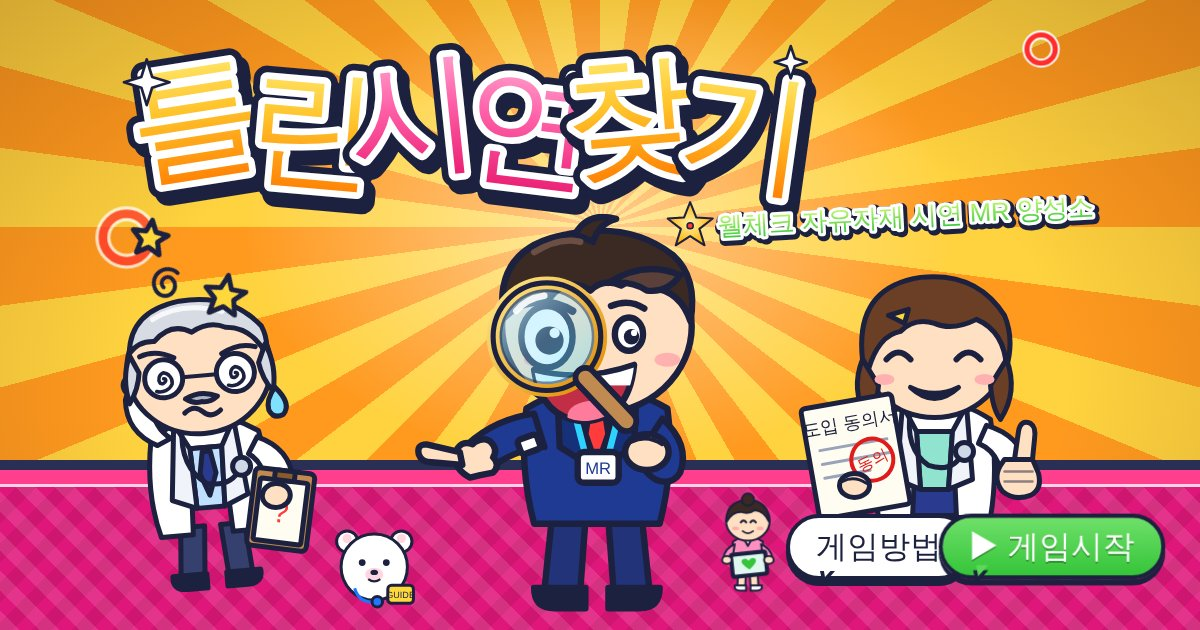
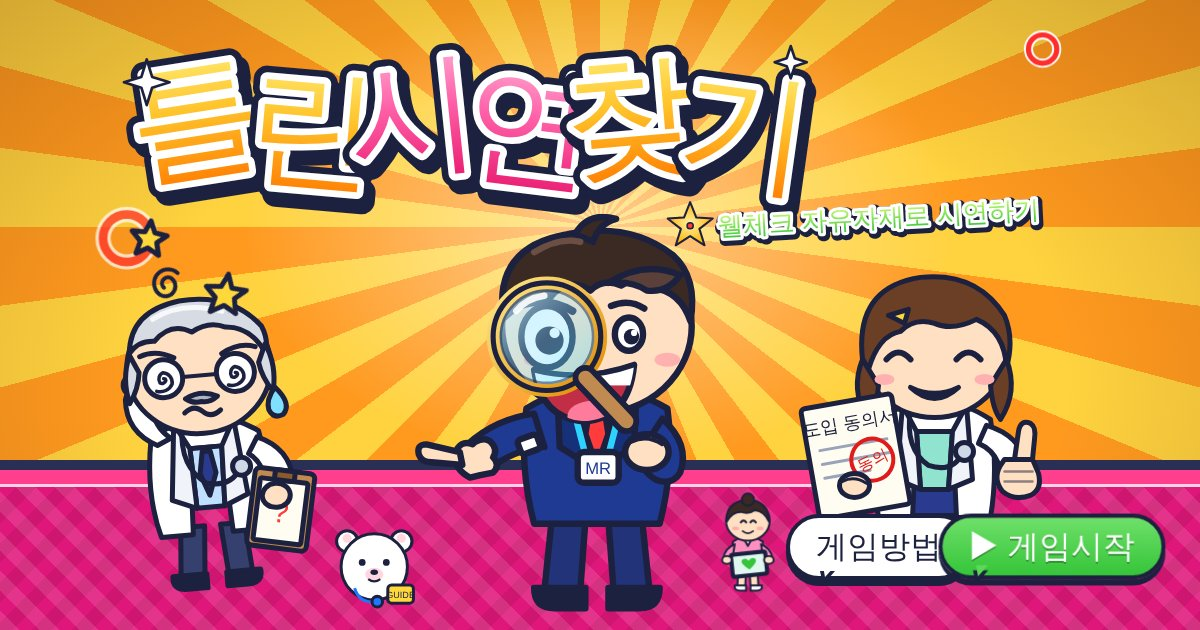
v56: 슬로건 '웰체크 자유자재로 시연하기'로 변경(타이틀·결과/인증서 이미지·공유 썸네일)
Claude-Session: https://claude.ai/code/session_01UE7LmQd9NYkQjVYqctjswZ

diff --git a/index.html b/index.html
@@ -1,4 +1,4 @@
-<!doctype html><html lang="ko"><head><meta charset="utf-8"><meta name="viewport" content="width=device-width,initial-scale=1,viewport-fit=cover"><meta name="robots" content="noindex,nofollow"><meta name="theme-color" content="#1d2140"><link rel="manifest" href="manifest.webmanifest"><link rel="apple-touch-icon" href="apple-touch-icon.png"><meta name="apple-mobile-web-app-capable" content="yes"><meta name="mobile-web-app-capable" content="yes"><meta name="apple-mobile-web-app-title" content="틀린시연찾기"><meta name="description" content="웰체크 자유자재 시연 MR 양성소 — 실제 화면에서 틀린 클릭을 찾아내는 시연 훈련 게임"><meta property="og:type" content="website"><meta property="og:title" content="틀린시연찾기 · 웰체크 시연 MR 양성소"><meta property="og:description" content="실제 화면으로 웰체크 시연을 연습하고, 원장님 질문까지 막힘 없이."><meta property="og:url" content="https://fromgray-lab.github.io/wellcheck-demo-spotter/"><meta property="og:image" content="https://fromgray-lab.github.io/wellcheck-demo-spotter/og.jpg"><meta property="og:image:width" content="1200"><meta property="og:image:height" content="630"><meta name="twitter:card" content="summary_large_image"><meta name="twitter:image" content="https://fromgray-lab.github.io/wellcheck-demo-spotter/og.jpg"></head><body><title>틀린시연찾기</title>
+<!doctype html><html lang="ko"><head><meta charset="utf-8"><meta name="viewport" content="width=device-width,initial-scale=1,viewport-fit=cover"><meta name="robots" content="noindex,nofollow"><meta name="theme-color" content="#1d2140"><link rel="manifest" href="manifest.webmanifest"><link rel="apple-touch-icon" href="apple-touch-icon.png"><meta name="apple-mobile-web-app-capable" content="yes"><meta name="mobile-web-app-capable" content="yes"><meta name="apple-mobile-web-app-title" content="틀린시연찾기"><meta name="description" content="웰체크 자유자재로 시연하기 — 실제 화면에서 틀린 클릭을 찾아내는 시연 훈련 게임"><meta property="og:type" content="website"><meta property="og:title" content="틀린시연찾기 · 웰체크 자유자재로 시연하기"><meta property="og:description" content="실제 화면으로 웰체크 시연을 연습하고, 원장님 질문까지 막힘 없이."><meta property="og:url" content="https://fromgray-lab.github.io/wellcheck-demo-spotter/"><meta property="og:image" content="https://fromgray-lab.github.io/wellcheck-demo-spotter/og.jpg"><meta property="og:image:width" content="1200"><meta property="og:image:height" content="630"><meta name="twitter:card" content="summary_large_image"><meta name="twitter:image" content="https://fromgray-lab.github.io/wellcheck-demo-spotter/og.jpg"></head><body><title>틀린시연찾기</title>
 <meta name="claude:viewport-fit-sides" content="cover">
 <link rel="stylesheet" href="https://fonts.googleapis.com/css2?family=Jua&family=Black+Han+Sans&family=Noto+Sans+KR:wght@400;700;900&display=swap">
 <style>
@@ -827,8 +827,8 @@ body[data-screen="loop"] .sunburst{--sun-1:#ffe9b8;--sun-2:#ffd27a}
     <symbol id="symBadge" viewBox="0 0 960 120" overflow="visible">
       <g transform="translate(46,60)"><path fill="url(#gStar)" stroke="#1d2140" stroke-width="4" stroke-linejoin="round" d="M0 -46 L12 -16 L44 -14 L18 6 L28 38 L0 20 L-28 38 L-18 6 L-44 -14 L-12 -16Z"/><circle cx="0" cy="0" r="6" fill="#ff3b3b" stroke="#1d2140" stroke-width="3"/></g>
       <g font-family="'Jua','Noto Sans KR',sans-serif" font-size="50" stroke-linejoin="round" transform="translate(100,78) rotate(-3)">
-        <text stroke="#1d2140" stroke-width="22" fill="#1d2140" x="3" y="5">웰체크 자유자재 시연 MR 양성소</text>
-        <text stroke="#fff" stroke-width="12" paint-order="stroke" fill="url(#gLime)">웰체크 자유자재 시연 MR 양성소</text>
+        <text stroke="#1d2140" stroke-width="22" fill="#1d2140" x="3" y="5">웰체크 자유자재로 시연하기</text>
+        <text stroke="#fff" stroke-width="12" paint-order="stroke" fill="url(#gLime)">웰체크 자유자재로 시연하기</text>
       </g>
     </symbol>
 
@@ -1029,7 +1029,7 @@ body[data-screen="loop"] .sunburst{--sun-1:#ffe9b8;--sun-2:#ffd27a}
     <div class="corner"><button type="button" class="g-btn" id="btnBoard">마스터 현황표</button><button type="button" class="g-btn" id="btnRecords">기록실</button></div>
     <button type="button" class="g-btn tail" id="btnHow">게임방법</button>
     <button type="button" class="g-btn tail green" id="btnStart">▶ 게임시작</button>
-    <div class="credit">틀린시연찾기 · 공식 메뉴얼 + 체험존 기반 · 신사업전략팀 · <span id="verTag" title="업데이트 노트는 게임방법 안에">v55</span></div>
+    <div class="credit">틀린시연찾기 · 공식 메뉴얼 + 체험존 기반 · 신사업전략팀 · <span id="verTag" title="업데이트 노트는 게임방법 안에">v56</span></div>
   </div>
 </section>
 
@@ -1296,6 +1296,7 @@ body[data-screen="loop"] .sunburst{--sun-1:#ffe9b8;--sun-2:#ffd27a}
     <div class="sites" id="siteLegend"></div>
     <p class="kbd" style="margin:10px 0 0">전체 완주 점수 = 100 − 오답×5 − 찬스×8. S 100 · A 90↑ · B 75↑ · C 60↑ · D · F(원장님 퇴장). 시간 초과도 오답 1회. 👀 시범은 정답과 멘트를 보여주는 자동 재생.</p>
     <details class="changelog"><summary>🆕 업데이트 노트 (최근)</summary><ul>
+      <li><b>v56</b> 슬로건 변경 — '웰체크 자유자재로 시연하기' (타이틀·결과 카드·인증서·수료 이미지·공유 썸네일 전부)</li>
       <li><b>v55</b> 일간 루프 제안 반영 — 오늘의 10문제·약점 집중·주간 챌린지에서 스텝 위에 '📍 M0 · 직전 단계: … ✓' 한 줄(맥락 없이 헤매던 문제) · '○○ 선택 후 [버튼]' 문구 3곳 '골라진 상태 — [버튼]'으로 정리 · ✕로 그만둘 때 이유 묻기(선택, 의견 시트로) · 이름에 자모 한 글자·'테스트' 등 입력 차단</li>
       <li><b>v54</b> 🔁 일간 자동 개선 — 쌓인 오클릭 기반 문구 보완 2건: M2 '앱 설치 문자 보내기' 메뉴 스텝에 '왼쪽 메뉴에서' 명시(3명이 카드의 초대문자 버튼을 먼저 누름) · M2 담당의사 저장 스텝에 '열린 팝업에서' 명시(2명이 표의 담당의사 돋보기를 누름)</li>
       <li><b>v53</b> 📉 실패·중도 그만도 기록 — 원장님 퇴장(인내심 0)과 플레이 중 ✕를 누른 판도 진행분(몇 스텝까지·오답·오클릭 위치)을 '실패'/'중단'으로 시트에 저장 → 어디서 막혀 포기하는지까지 개선 루프에 반영</li>
@@ -2280,7 +2281,7 @@ function saveResultImage(){ const L=S.lastResult; if(!L) return; const W=1080,H=
   const stats=[['점수',L.total],['오답',L.wrong],['찬스',L.chance],['응대',L.q&&L.q.total?`${L.q.ok}/${L.q.total}`:'—'],['시간',L.time]]; stats.forEach(([k,v],i)=>{ const x=110+i*(W-220)/5, w=(W-220)/5-12; roundRect(c,x,670,w,96,18); c.fillStyle='#fff'; c.fill(); c.lineWidth=4; c.strokeStyle='#1d2140'; c.stroke(); c.fillStyle='#5b6383'; c.font=F(20); c.fillText(k,x+w/2,696); c.fillStyle='#1d2140'; c.font=F(String(v).length>5?30:36); c.fillText(String(v),x+w/2,736); });
   // 스테이지 별
   c.textAlign='left'; let y=820; L.rows.forEach(([code,title,stars])=>{ c.fillStyle='#1d2140'; c.font=F(24); c.fillText(code+' '+title, 130, y); c.font=F(30); c.strokeStyle='#1d2140'; c.lineWidth=3; const sw=c.measureText('★').width+6; const x0=W-130-sw*3; for(let k=0;k<3;k++){ const on=k<stars; c.fillStyle=on?'#ffd93b':'#e3e5ee'; c.strokeStyle=on?'#1d2140':'#b8bccc'; c.strokeText('★', x0+k*sw, y); c.fillText('★', x0+k*sw, y); } c.strokeStyle='#1d2140'; y+=44; });
-  c.textAlign='center'; c.fillStyle='#fff'; c.font=F(28); c.lineWidth=6; c.strokeStyle='#1d2140'; c.strokeText('웰체크 자유자재 시연 MR 양성소', W/2, H-96); c.fillText('웰체크 자유자재 시연 MR 양성소', W/2, H-96);
+  c.textAlign='center'; c.fillStyle='#fff'; c.font=F(28); c.lineWidth=6; c.strokeStyle='#1d2140'; c.strokeText('웰체크 자유자재로 시연하기', W/2, H-96); c.fillText('웰체크 자유자재로 시연하기', W/2, H-96);
   const fn=`틀린시연찾기_${L.name}_${L.g}.png`; const btn=$('imgBtn'); const done=(t,ms)=>{ btn.textContent=t; setTimeout(()=>{ btn.textContent='🖼 이미지 저장'; btn.disabled=false; }, ms||1800); };
   btn.disabled=true; btn.textContent='준비 중…';
   cv.toBlob(async b=>{ if(!b){ done('저장 실패'); return; }
@@ -2351,7 +2352,7 @@ function renderQReview(){ const l=(S.qLog||[]).filter(x=>!x.learn); const box=$(
    스텝 숙련도 = 시도 품질(오답0·찬스0=1.0 / 오답1=0.6 / 찬스 또는 오답2=0.3 / 그 이상=0)의 최근 가중 평균(EMA 0.5) × 시간 감쇠(60일에 걸쳐 60%까지)
    스테이지 숙련도 = 스텝 평균(미시도=0) · 코스 숙련도 = 스테이지 평균 */
 const RANKS = [
-  { id:'trainee', n:'견습 MR', ic:'🌱', desc:'양성소 입소. 시범·따라하기로 흐름을 익히는 단계' },
+  { id:'trainee', n:'견습 MR', ic:'🌱', desc:'훈련 시작. 시범·따라하기로 흐름을 익히는 단계' },
   { id:'certified', n:'정식 MR', ic:'🎖', desc:'실무 8단계 완주 B등급 이상 + 실무 숙련도 60% 이상' },
   { id:'master', n:'마스터 MR', ic:'👑', desc:'실무·체험존 모두 A등급 이상 완주 + 두 코스 숙련도 85% 이상 + 원장님 질문 응대 정답률 80% 이상(10문 이상)' }
 ];
@@ -2664,7 +2665,7 @@ function saveCertImage(btn){ const T=certText(); const W=1400,H=990; const cv=do
   const bg=c.createLinearGradient(0,0,W,H); bg.addColorStop(0,'#fff6dc'); bg.addColorStop(1,'#ffe7b3'); c.fillStyle=bg; c.fillRect(0,0,W,H);
   c.strokeStyle='#1d2140'; c.lineWidth=14; roundRect(c,40,40,W-80,H-80,36); c.stroke(); c.strokeStyle='#e0177a'; c.lineWidth=4; roundRect(c,66,66,W-132,H-132,26); c.stroke();
   const F=(sz,fam)=>`${sz}px ${fam||"'Jua','Noto Sans KR',sans-serif"}`; c.textAlign='center'; c.textBaseline='middle';
-  const gold=T.rank.id==='master'; const ribbon=gold?'#ffb300':T.rank.id==='certified'?'#2b9bff':'#5ad36b'; c.fillStyle=ribbon; roundRect(c,W/2-270,96,540,64,22); c.fill(); c.strokeStyle='#1d2140'; c.lineWidth=5; c.stroke(); c.fillStyle='#fff'; c.font=F(30); c.fillText('웰체크 자유자재 시연 MR 양성소',W/2,128);
+  const gold=T.rank.id==='master'; const ribbon=gold?'#ffb300':T.rank.id==='certified'?'#2b9bff':'#5ad36b'; c.fillStyle=ribbon; roundRect(c,W/2-270,96,540,64,22); c.fill(); c.strokeStyle='#1d2140'; c.lineWidth=5; c.stroke(); c.fillStyle='#fff'; c.font=F(30); c.fillText('웰체크 자유자재로 시연하기',W/2,128);
   c.fillStyle='#1d2140'; c.font=F(72,"'Black Han Sans','Jua',sans-serif"); c.fillText('MR 자격 인증서',W/2,236);
   c.font=F(120); c.fillText(T.rank.ic,W/2,370);
   c.font=F(56); c.fillStyle='#1d2140'; c.fillText(T.rank.n,W/2,470);
@@ -2855,7 +2856,7 @@ function saveCardImage(card, btn){ const W=1080,H=1080; const cv=document.create
   const stats=card.stats||[]; const n=stats.length||1; stats.forEach(([k,v],i)=>{ const x=120+i*(W-240)/n, w=(W-240)/n-12; roundRect(c,x,672,w,116,18); c.fillStyle='#fff'; c.fill(); c.lineWidth=4; c.strokeStyle='#1d2140'; c.stroke(); c.fillStyle='#5b6383'; c.font=F(22); c.fillText(k,x+w/2,706); c.fillStyle='#1d2140'; c.font=F(String(v).length>5?32:42); c.fillText(String(v),x+w/2,752); });
   if(card.msg){ roundRect(c,140,812,W-280,70,18); c.fillStyle='#fff3a8'; c.fill(); c.lineWidth=4; c.strokeStyle='#1d2140'; c.stroke(); c.fillStyle='#1d2140'; c.font=F(28); c.fillText(card.msg, W/2, 847); }
   c.fillStyle='#5b6383'; c.font=F(22); c.fillText(new Date().toLocaleString('ko-KR',{dateStyle:'medium',timeStyle:'short'}), W/2, H-185);
-  c.fillStyle='#fff'; c.font=F(30); c.lineWidth=6; c.strokeStyle='#1d2140'; c.strokeText('웰체크 자유자재 시연 MR 양성소', W/2, H-72); c.fillText('웰체크 자유자재 시연 MR 양성소', W/2, H-72);
+  c.fillStyle='#fff'; c.font=F(30); c.lineWidth=6; c.strokeStyle='#1d2140'; c.strokeText('웰체크 자유자재로 시연하기', W/2, H-72); c.fillText('웰체크 자유자재로 시연하기', W/2, H-72);
   const fn=card.fn||'틀린시연찾기_카드.png'; const done=(t,ms)=>{ if(!btn) return; btn.textContent=t; setTimeout(()=>{ btn.textContent='🖼 이미지 저장'; btn.disabled=false; }, ms||1800); }; if(btn){ btn.disabled=true; btn.textContent='준비 중…'; }
   cv.toBlob(async b=>{ if(!b){ done('저장 실패'); return; } const dl=await getDownloads(); if(dl){ try{ await dl.save({ filename:fn, data:b }); SFX.star(); done('저장됨 ✓'); }catch(e){ const code=e&&e.code; done(code==='declined'?'취소됨':code==='rate_limited'?'잠시 후 다시':'저장 실패'); } } else if(!window.claude){ const a=document.createElement('a'); a.href=URL.createObjectURL(b); a.download=fn; document.body.appendChild(a); a.click(); setTimeout(()=>{ URL.revokeObjectURL(a.href); a.remove(); },1500); done('저장됨 ✓'); } else done('이 화면에선 저장 불가',2600); }, 'image/png'); }
 function cardBtnHtml(){ return `<button type="button" class="g-btn" data-card>🖼 이미지 저장</button>`; }

diff --git a/sw.js b/sw.js
@@ -1,5 +1,5 @@
 /* 틀린시연찾기 오프라인 서비스워커 — make_site.py가 버전·자산 목록을 채움 */
-const VER='dsg-a19d95b729'; const ASSETS=["./", "index.html", "manifest.webmanifest", "icon-192.png", "icon-512.png", "apple-touch-icon.png", "img/s01_zone_select.jpg", "img/s02_wellcheck_menu.jpg", "img/s03_bear_question.jpg", "img/s04_bear_y1.jpg", "img/s05_bear_y2.jpg", "img/s06_bear_y3.jpg", "img/s07_bear_n1.jpg", "img/s08_bear_n2.jpg", "img/s09_bear_n3.jpg", "img/s10_bear_n4.jpg", "img/s11_spotlight_emr.jpg", "img/s13_b2_chart.jpg", "img/s14_b2_discount.jpg", "img/s15_popup_suga.jpg", "img/s16_popup_health.jpg", "img/s17_popup_faq.jpg", "img/s18_b3_revenue.jpg", "img/s19_b3_benefit.jpg", "img/s20_b4_invitation.jpg", "img/s21_b5_initial.jpg", "img/s22_b5_newrow.jpg", "img/s23_b5_calendar.jpg", "img/s24_b5_dates.jpg", "img/s25_b5_filled.jpg", "img/s26_b5_doctor_modal.jpg", "img/s27_b5_doctor_selected.jpg", "img/s28_b5_saved.jpg", "img/s29_b6_initial.jpg", "img/s30_b6_dropdown.jpg", "img/s31_b6_bulk.jpg", "img/s32_b6_careplan_popup.jpg", "img/s33_b7_apply.jpg", "img/s34_b7_apply_result.jpg", "img/s35_b7_deduct.jpg", "img/s36_b7_deduct_result.jpg", "img/s37_b7_deduct_popup.jpg", "img/s38_b7_deduct_ready.jpg", "img/s39_end_modal.jpg", "img/s40_b2tour_card3.jpg", "img/s41_b2tour_card4.jpg", "img/w_login.jpg", "img/w_signup1.jpg", "img/m/m06.webp", "img/m/m07.webp", "img/m/m07a.webp", "img/m/m07b.webp", "img/m/m08.webp", "img/m/m09.webp", "img/m/m10.webp", "img/m/m10b.webp", "img/m/m11.webp", "img/m/m13.webp", "img/m/m14.webp", "img/m/m15.webp", "img/m/m16.webp", "img/m/m17.webp", "img/m/m19.webp", "img/m/m20.webp", "img/m/m21.webp", "img/m/m22.webp", "img/m/m24.webp", "img/m/m25.webp", "img/m/m26.webp", "img/m/m27.webp", "img/m/m31.webp", "img/m/m32a.webp", "img/m/m32b.webp", "img/m/m33.webp", "img/m/m37.webp", "img/m/m38.webp", "img/m/m41.webp", "img/m/m42.webp", "img/m/m43.webp", "img/m/m44.webp", "img/m/m45.webp", "img/m/m48.webp", "img/m/m49.webp", "img/m/m50.webp", "img/m/m51.webp", "img/m/m52.webp", "img/m/m56.webp", "img/m/m57.webp", "img/m/m60.webp", "img/m/m61.webp", "img/m/m62.webp", "img/m/m66.webp", "img/m/m68.webp", "img/m/m69.webp", "img/m/m73.webp", "img/m/m75.webp", "img/m/m76.webp", "img/m/m77.webp", "img/m/m78.webp", "img/m/x_bp.webp", "img/m/x_cert.webp", "img/m/x_date.webp", "img/m/x_docs.webp", "img/m/x_email.webp", "img/m/x_hba1c.webp", "img/m/x_icon.webp", "img/m/x_mdate.webp", "img/m/x_port.webp", "img/m/x_q2.webp", "img/m/x_role.webp", "img/m/x_sso.webp", "img/m/x_webapi.webp", "img/m/x_year.webp", "img/m/x_ykno.webp", "img/hd/s01_zone_select.webp", "img/hd/s02_wellcheck_menu.webp", "img/hd/s03_bear_question.webp", "img/hd/s11_spotlight_emr.webp", "img/hd/s13_b2_chart.webp", "img/hd/s14_b2_discount.webp", "img/hd/s15_popup_suga.webp", "img/hd/s16_popup_health.webp", "img/hd/s18_b3_revenue.webp", "img/hd/s19_b3_benefit.webp", "img/hd/s20_b4_invitation.webp", "img/hd/s21_b5_initial.webp", "img/hd/s22_b5_newrow.webp", "img/hd/s23_b5_calendar.webp", "img/hd/s24_b5_dates.webp", "img/hd/s25_b5_filled.webp", "img/hd/s26_b5_doctor_modal.webp", "img/hd/s27_b5_doctor_selected.webp", "img/hd/s28_b5_saved.webp", "img/hd/s29_b6_initial.webp", "img/hd/s30_b6_dropdown.webp", "img/hd/s31_b6_bulk.webp", "img/hd/s32_b6_careplan_popup.webp", "img/hd/s33_b7_apply.webp", "img/hd/s34_b7_apply_result.webp", "img/hd/s35_b7_deduct.webp", "img/hd/s36_b7_deduct_result.webp", "img/hd/s37_b7_deduct_popup.webp", "img/hd/s38_b7_deduct_ready.webp", "img/hd/s39_end_modal.webp", "img/hd/w_login.webp", "img/hd/w_signup1.webp", "img/ysr/c1base.webp", "img/ysr/c1menu.webp", "img/ysr/c2.webp", "img/ysr/c3.webp", "img/ysr/env1.webp", "img/ysr/env2.webp", "img/ysr/hira.webp", "img/ysr/hira2.webp", "img/ysr/hp.webp", "img/ysr/launcher.webp", "img/ysr/r2.webp", "img/ysr/r3.webp", "img/ysr/r4.webp", "img/ysr/r5.webp", "img/ysr/r_new.webp", "img/ysr/tb.webp", "img/ysr/v4.webp", "img/ysr/w1.webp", "img/ysr/w2.webp", "img/ysr/w3.webp", "img/ysr/w5.webp", "img/ysr/wcall.webp", "img/ysr/wcall2.webp", "img/dh/c_app.webp", "img/dh/c_cal1.webp", "img/dh/c_conn.webp", "img/dh/c_list.webp", "img/dh/c_menu.webp", "img/dh/c_pdf.webp", "img/dh/c_return.webp", "img/dh/c_send.webp", "img/dh/c_set.webp", "img/dh/c_start.webp", "img/dh/c_web.webp", "img/dh/l_app.webp", "img/dh/l_done.webp", "img/dh/l_edu.webp", "img/dh/l_list.webp", "img/dh/l_rec.webp", "img/dh/l_recsend.webp", "img/dh/l_send.webp", "bgm/custom.mp3"];
+const VER='dsg-bd75563ce9'; const ASSETS=["./", "index.html", "manifest.webmanifest", "icon-192.png", "icon-512.png", "apple-touch-icon.png", "img/s01_zone_select.jpg", "img/s02_wellcheck_menu.jpg", "img/s03_bear_question.jpg", "img/s04_bear_y1.jpg", "img/s05_bear_y2.jpg", "img/s06_bear_y3.jpg", "img/s07_bear_n1.jpg", "img/s08_bear_n2.jpg", "img/s09_bear_n3.jpg", "img/s10_bear_n4.jpg", "img/s11_spotlight_emr.jpg", "img/s13_b2_chart.jpg", "img/s14_b2_discount.jpg", "img/s15_popup_suga.jpg", "img/s16_popup_health.jpg", "img/s17_popup_faq.jpg", "img/s18_b3_revenue.jpg", "img/s19_b3_benefit.jpg", "img/s20_b4_invitation.jpg", "img/s21_b5_initial.jpg", "img/s22_b5_newrow.jpg", "img/s23_b5_calendar.jpg", "img/s24_b5_dates.jpg", "img/s25_b5_filled.jpg", "img/s26_b5_doctor_modal.jpg", "img/s27_b5_doctor_selected.jpg", "img/s28_b5_saved.jpg", "img/s29_b6_initial.jpg", "img/s30_b6_dropdown.jpg", "img/s31_b6_bulk.jpg", "img/s32_b6_careplan_popup.jpg", "img/s33_b7_apply.jpg", "img/s34_b7_apply_result.jpg", "img/s35_b7_deduct.jpg", "img/s36_b7_deduct_result.jpg", "img/s37_b7_deduct_popup.jpg", "img/s38_b7_deduct_ready.jpg", "img/s39_end_modal.jpg", "img/s40_b2tour_card3.jpg", "img/s41_b2tour_card4.jpg", "img/w_login.jpg", "img/w_signup1.jpg", "img/m/m06.webp", "img/m/m07.webp", "img/m/m07a.webp", "img/m/m07b.webp", "img/m/m08.webp", "img/m/m09.webp", "img/m/m10.webp", "img/m/m10b.webp", "img/m/m11.webp", "img/m/m13.webp", "img/m/m14.webp", "img/m/m15.webp", "img/m/m16.webp", "img/m/m17.webp", "img/m/m19.webp", "img/m/m20.webp", "img/m/m21.webp", "img/m/m22.webp", "img/m/m24.webp", "img/m/m25.webp", "img/m/m26.webp", "img/m/m27.webp", "img/m/m31.webp", "img/m/m32a.webp", "img/m/m32b.webp", "img/m/m33.webp", "img/m/m37.webp", "img/m/m38.webp", "img/m/m41.webp", "img/m/m42.webp", "img/m/m43.webp", "img/m/m44.webp", "img/m/m45.webp", "img/m/m48.webp", "img/m/m49.webp", "img/m/m50.webp", "img/m/m51.webp", "img/m/m52.webp", "img/m/m56.webp", "img/m/m57.webp", "img/m/m60.webp", "img/m/m61.webp", "img/m/m62.webp", "img/m/m66.webp", "img/m/m68.webp", "img/m/m69.webp", "img/m/m73.webp", "img/m/m75.webp", "img/m/m76.webp", "img/m/m77.webp", "img/m/m78.webp", "img/m/x_bp.webp", "img/m/x_cert.webp", "img/m/x_date.webp", "img/m/x_docs.webp", "img/m/x_email.webp", "img/m/x_hba1c.webp", "img/m/x_icon.webp", "img/m/x_mdate.webp", "img/m/x_port.webp", "img/m/x_q2.webp", "img/m/x_role.webp", "img/m/x_sso.webp", "img/m/x_webapi.webp", "img/m/x_year.webp", "img/m/x_ykno.webp", "img/hd/s01_zone_select.webp", "img/hd/s02_wellcheck_menu.webp", "img/hd/s03_bear_question.webp", "img/hd/s11_spotlight_emr.webp", "img/hd/s13_b2_chart.webp", "img/hd/s14_b2_discount.webp", "img/hd/s15_popup_suga.webp", "img/hd/s16_popup_health.webp", "img/hd/s18_b3_revenue.webp", "img/hd/s19_b3_benefit.webp", "img/hd/s20_b4_invitation.webp", "img/hd/s21_b5_initial.webp", "img/hd/s22_b5_newrow.webp", "img/hd/s23_b5_calendar.webp", "img/hd/s24_b5_dates.webp", "img/hd/s25_b5_filled.webp", "img/hd/s26_b5_doctor_modal.webp", "img/hd/s27_b5_doctor_selected.webp", "img/hd/s28_b5_saved.webp", "img/hd/s29_b6_initial.webp", "img/hd/s30_b6_dropdown.webp", "img/hd/s31_b6_bulk.webp", "img/hd/s32_b6_careplan_popup.webp", "img/hd/s33_b7_apply.webp", "img/hd/s34_b7_apply_result.webp", "img/hd/s35_b7_deduct.webp", "img/hd/s36_b7_deduct_result.webp", "img/hd/s37_b7_deduct_popup.webp", "img/hd/s38_b7_deduct_ready.webp", "img/hd/s39_end_modal.webp", "img/hd/w_login.webp", "img/hd/w_signup1.webp", "img/ysr/c1base.webp", "img/ysr/c1menu.webp", "img/ysr/c2.webp", "img/ysr/c3.webp", "img/ysr/env1.webp", "img/ysr/env2.webp", "img/ysr/hira.webp", "img/ysr/hira2.webp", "img/ysr/hp.webp", "img/ysr/launcher.webp", "img/ysr/r2.webp", "img/ysr/r3.webp", "img/ysr/r4.webp", "img/ysr/r5.webp", "img/ysr/r_new.webp", "img/ysr/tb.webp", "img/ysr/v4.webp", "img/ysr/w1.webp", "img/ysr/w2.webp", "img/ysr/w3.webp", "img/ysr/w5.webp", "img/ysr/wcall.webp", "img/ysr/wcall2.webp", "img/dh/c_app.webp", "img/dh/c_cal1.webp", "img/dh/c_conn.webp", "img/dh/c_list.webp", "img/dh/c_menu.webp", "img/dh/c_pdf.webp", "img/dh/c_return.webp", "img/dh/c_send.webp", "img/dh/c_set.webp", "img/dh/c_start.webp", "img/dh/c_web.webp", "img/dh/l_app.webp", "img/dh/l_done.webp", "img/dh/l_edu.webp", "img/dh/l_list.webp", "img/dh/l_rec.webp", "img/dh/l_recsend.webp", "img/dh/l_send.webp", "bgm/custom.mp3"];
 self.addEventListener('install', e=>{ e.waitUntil(caches.open(VER).then(c=>Promise.all(ASSETS.map(a=>c.add(new Request(a,{cache:'reload'})).catch(()=>null)))).then(()=>self.skipWaiting())); });
 self.addEventListener('activate', e=>{ e.waitUntil(caches.keys().then(ks=>Promise.all(ks.filter(k=>k.startsWith('dsg-')&&k!==VER).map(k=>caches.delete(k)))).then(()=>self.clients.claim())); });
 self.addEventListener('fetch', e=>{ const u=new URL(e.request.url); if(e.request.method!=='GET'||u.origin!==location.origin) return; /* 구글 시트·폰트 등 외부는 손대지 않음 */

diff --git a/src/game/parts/changelog.html b/src/game/parts/changelog.html
@@ -1,4 +1,5 @@
     <details class="changelog"><summary>🆕 업데이트 노트 (최근)</summary><ul>
+      <li><b>v56</b> 슬로건 변경 — '웰체크 자유자재로 시연하기' (타이틀·결과 카드·인증서·수료 이미지·공유 썸네일 전부)</li>
       <li><b>v55</b> 일간 루프 제안 반영 — 오늘의 10문제·약점 집중·주간 챌린지에서 스텝 위에 '📍 M0 · 직전 단계: … ✓' 한 줄(맥락 없이 헤매던 문제) · '○○ 선택 후 [버튼]' 문구 3곳 '골라진 상태 — [버튼]'으로 정리 · ✕로 그만둘 때 이유 묻기(선택, 의견 시트로) · 이름에 자모 한 글자·'테스트' 등 입력 차단</li>
       <li><b>v54</b> 🔁 일간 자동 개선 — 쌓인 오클릭 기반 문구 보완 2건: M2 '앱 설치 문자 보내기' 메뉴 스텝에 '왼쪽 메뉴에서' 명시(3명이 카드의 초대문자 버튼을 먼저 누름) · M2 담당의사 저장 스텝에 '열린 팝업에서' 명시(2명이 표의 담당의사 돋보기를 누름)</li>
       <li><b>v53</b> 📉 실패·중도 그만도 기록 — 원장님 퇴장(인내심 0)과 플레이 중 ✕를 누른 판도 진행분(몇 스텝까지·오답·오클릭 위치)을 '실패'/'중단'으로 시트에 저장 → 어디서 막혀 포기하는지까지 개선 루프에 반영</li>

diff --git a/src/make_site.py b/src/make_site.py
@@ -8,8 +8,8 @@ head=('<meta charset="utf-8"><meta name="viewport" content="width=device-width,i
       '<link rel="manifest" href="manifest.webmanifest"><link rel="apple-touch-icon" href="apple-touch-icon.png">'
       '<meta name="apple-mobile-web-app-capable" content="yes"><meta name="mobile-web-app-capable" content="yes">'
       '<meta name="apple-mobile-web-app-title" content="틀린시연찾기">'
-      '<meta name="description" content="웰체크 자유자재 시연 MR 양성소 — 실제 화면에서 틀린 클릭을 찾아내는 시연 훈련 게임">'
-      '<meta property="og:type" content="website"><meta property="og:title" content="틀린시연찾기 · 웰체크 시연 MR 양성소">'
+      '<meta name="description" content="웰체크 자유자재로 시연하기 — 실제 화면에서 틀린 클릭을 찾아내는 시연 훈련 게임">'
+      '<meta property="og:type" content="website"><meta property="og:title" content="틀린시연찾기 · 웰체크 자유자재로 시연하기">'
       '<meta property="og:description" content="실제 화면으로 웰체크 시연을 연습하고, 원장님 질문까지 막힘 없이.">'
       '<meta property="og:url" content="https://fromgray-lab.github.io/wellcheck-demo-spotter/"><meta property="og:image" content="https://fromgray-lab.github.io/wellcheck-demo-spotter/og.jpg">'
       '<meta property="og:image:width" content="1200"><meta property="og:image:height" content="630">'

diff --git a/src/game/build_v32.py b/src/game/build_v32.py
@@ -115,3 +115,6 @@ function quitAsk(){ if(S.over||S.demo||S.guide||!['one','all','daily','focus','w
   openModal('quitModal'); return true; }
 /* 초기화 */""")
 src = rep(src, "</style>", ".prevact{display:block;font-size:12px;font-weight:800;color:#6b4f00;background:#fff3c4;border:2px solid #f2c94c;border-radius:999px;padding:1px 10px;margin:0 0 3px;width:max-content;max-width:100%;overflow:hidden;text-overflow:ellipsis;white-space:normal;line-height:1.3} #quitModal .ideacats{margin:2px 0 8px}</style>")
+# v56: 슬로건 변경 — '웰체크 자유자재 시연 MR 양성소' → '웰체크 자유자재로 시연하기' (모든 영역)
+src = src.replace('웰체크 자유자재 시연 MR 양성소', '웰체크 자유자재로 시연하기').replace("desc:'양성소 입소.", "desc:'훈련 시작.")
+assert '양성소' not in src.split('<details class="changelog">')[0] or True
